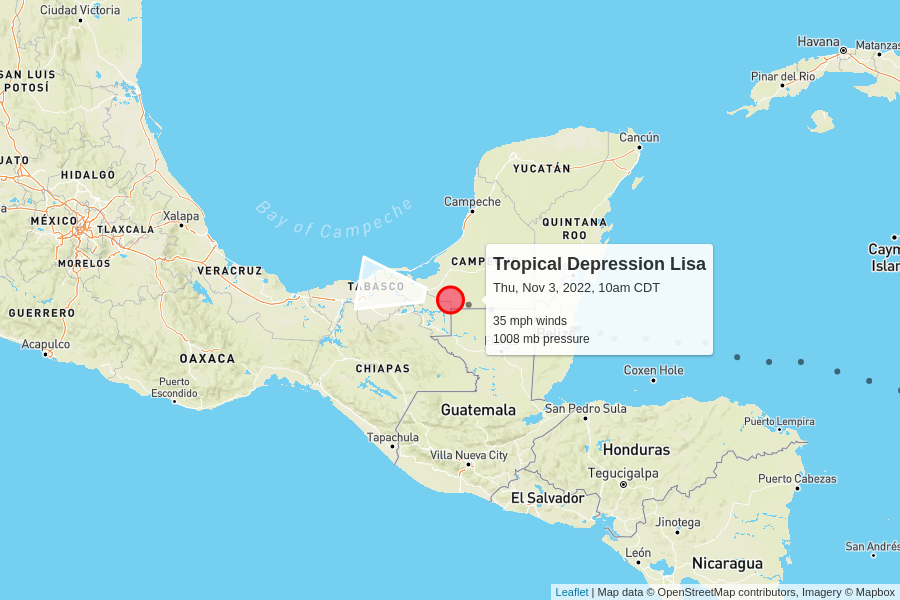
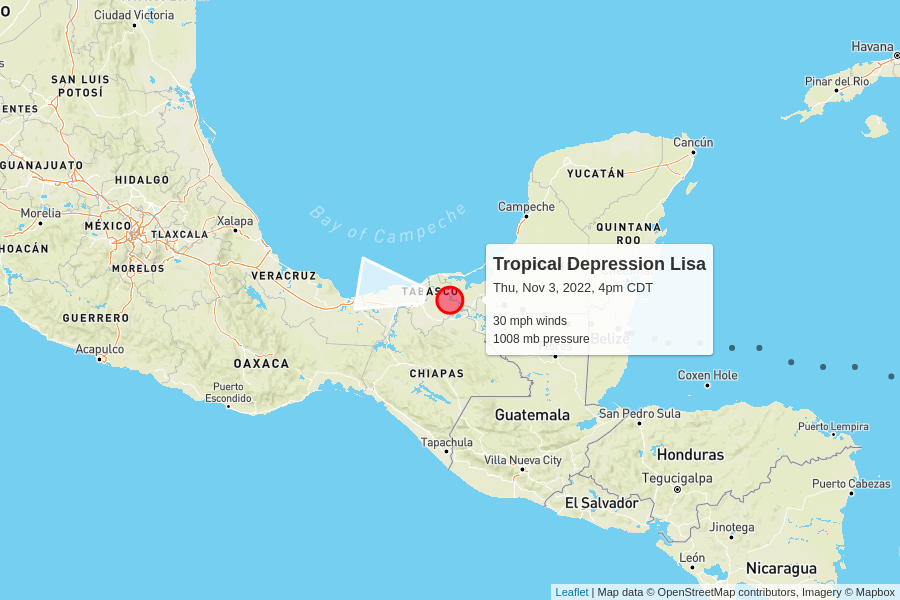
automatic update

diff --git a/docs/index.html b/docs/index.html
@@ -100,7 +100,7 @@
         <td colspan="6" class="storm category-0" >
           <h2>
             Tropical Depression Lisa
-            <p class="updated">last updated <span data-time>2022-11-03T15:00:00.000Z</span></p>
+            <p class="updated">last updated <span data-time>2022-11-03T21:00:00.000Z</span></p>
           </h2>
         </td>
       </tr>
@@ -115,10 +115,10 @@
       </tr>
       <tr>
         <td class="spacer"></td>
-        <td>35 mph</td>
+        <td>30 mph</td>
         <td>1008 mb</td>
         <td>
-          10 mph to the west
+          12 mph to the west
           <br/>
           <span style="display: inline-block; font-size: 1.5em; transform: rotate(280deg);">↑</span>
         </td>
@@ -141,35 +141,13 @@
       
 
       <tr>
-        <td colspan="6" class="storm category-1" >
-          <h2>
-            Hurricane Martin - Category 1
-            <p class="updated">last updated <span data-time>2022-11-03T15:00:00.000Z</span></p>
+        <td colspan="6" class="storm category-1" style="cursor:pointer;" onClick="toggle('AL162022')">
+          <h2>🏁 Martin
           </h2>
         </td>
       </tr>
       
-      <tr>
-        <th class="spacer"></th>
-        <th>wind speed</th>
-        <th>central pressure</th>
-        <th>movement</th>
-        <th>data (CSV)</th>
-        <th>National Hurricane Center</th>
-      </tr>
-      <tr>
-        <td class="spacer"></td>
-        <td>85 mph</td>
-        <td>960 mb</td>
-        <td>
-          48 mph to the northeast
-          <br/>
-          <span style="display: inline-block; font-size: 1.5em; transform: rotate(35deg);">↑</span>
-        </td>
-        <td><a href="https://raw.githubusercontent.com/mgwalker/atlantic-hurricanes/main/data/csv/AL162022.csv">AL162022.csv</a></td>
-        <td><a href="https://www.nhc.noaa.gov/archive/2022/MARTIN.shtml?">NHC advisories</a></td>
-      </tr>
-      <tr id="storm_AL162022" >
+      <tr id="storm_AL162022" style="display:none;">
         <td class="spacer">
         <td colspan="5">
           <figure>
